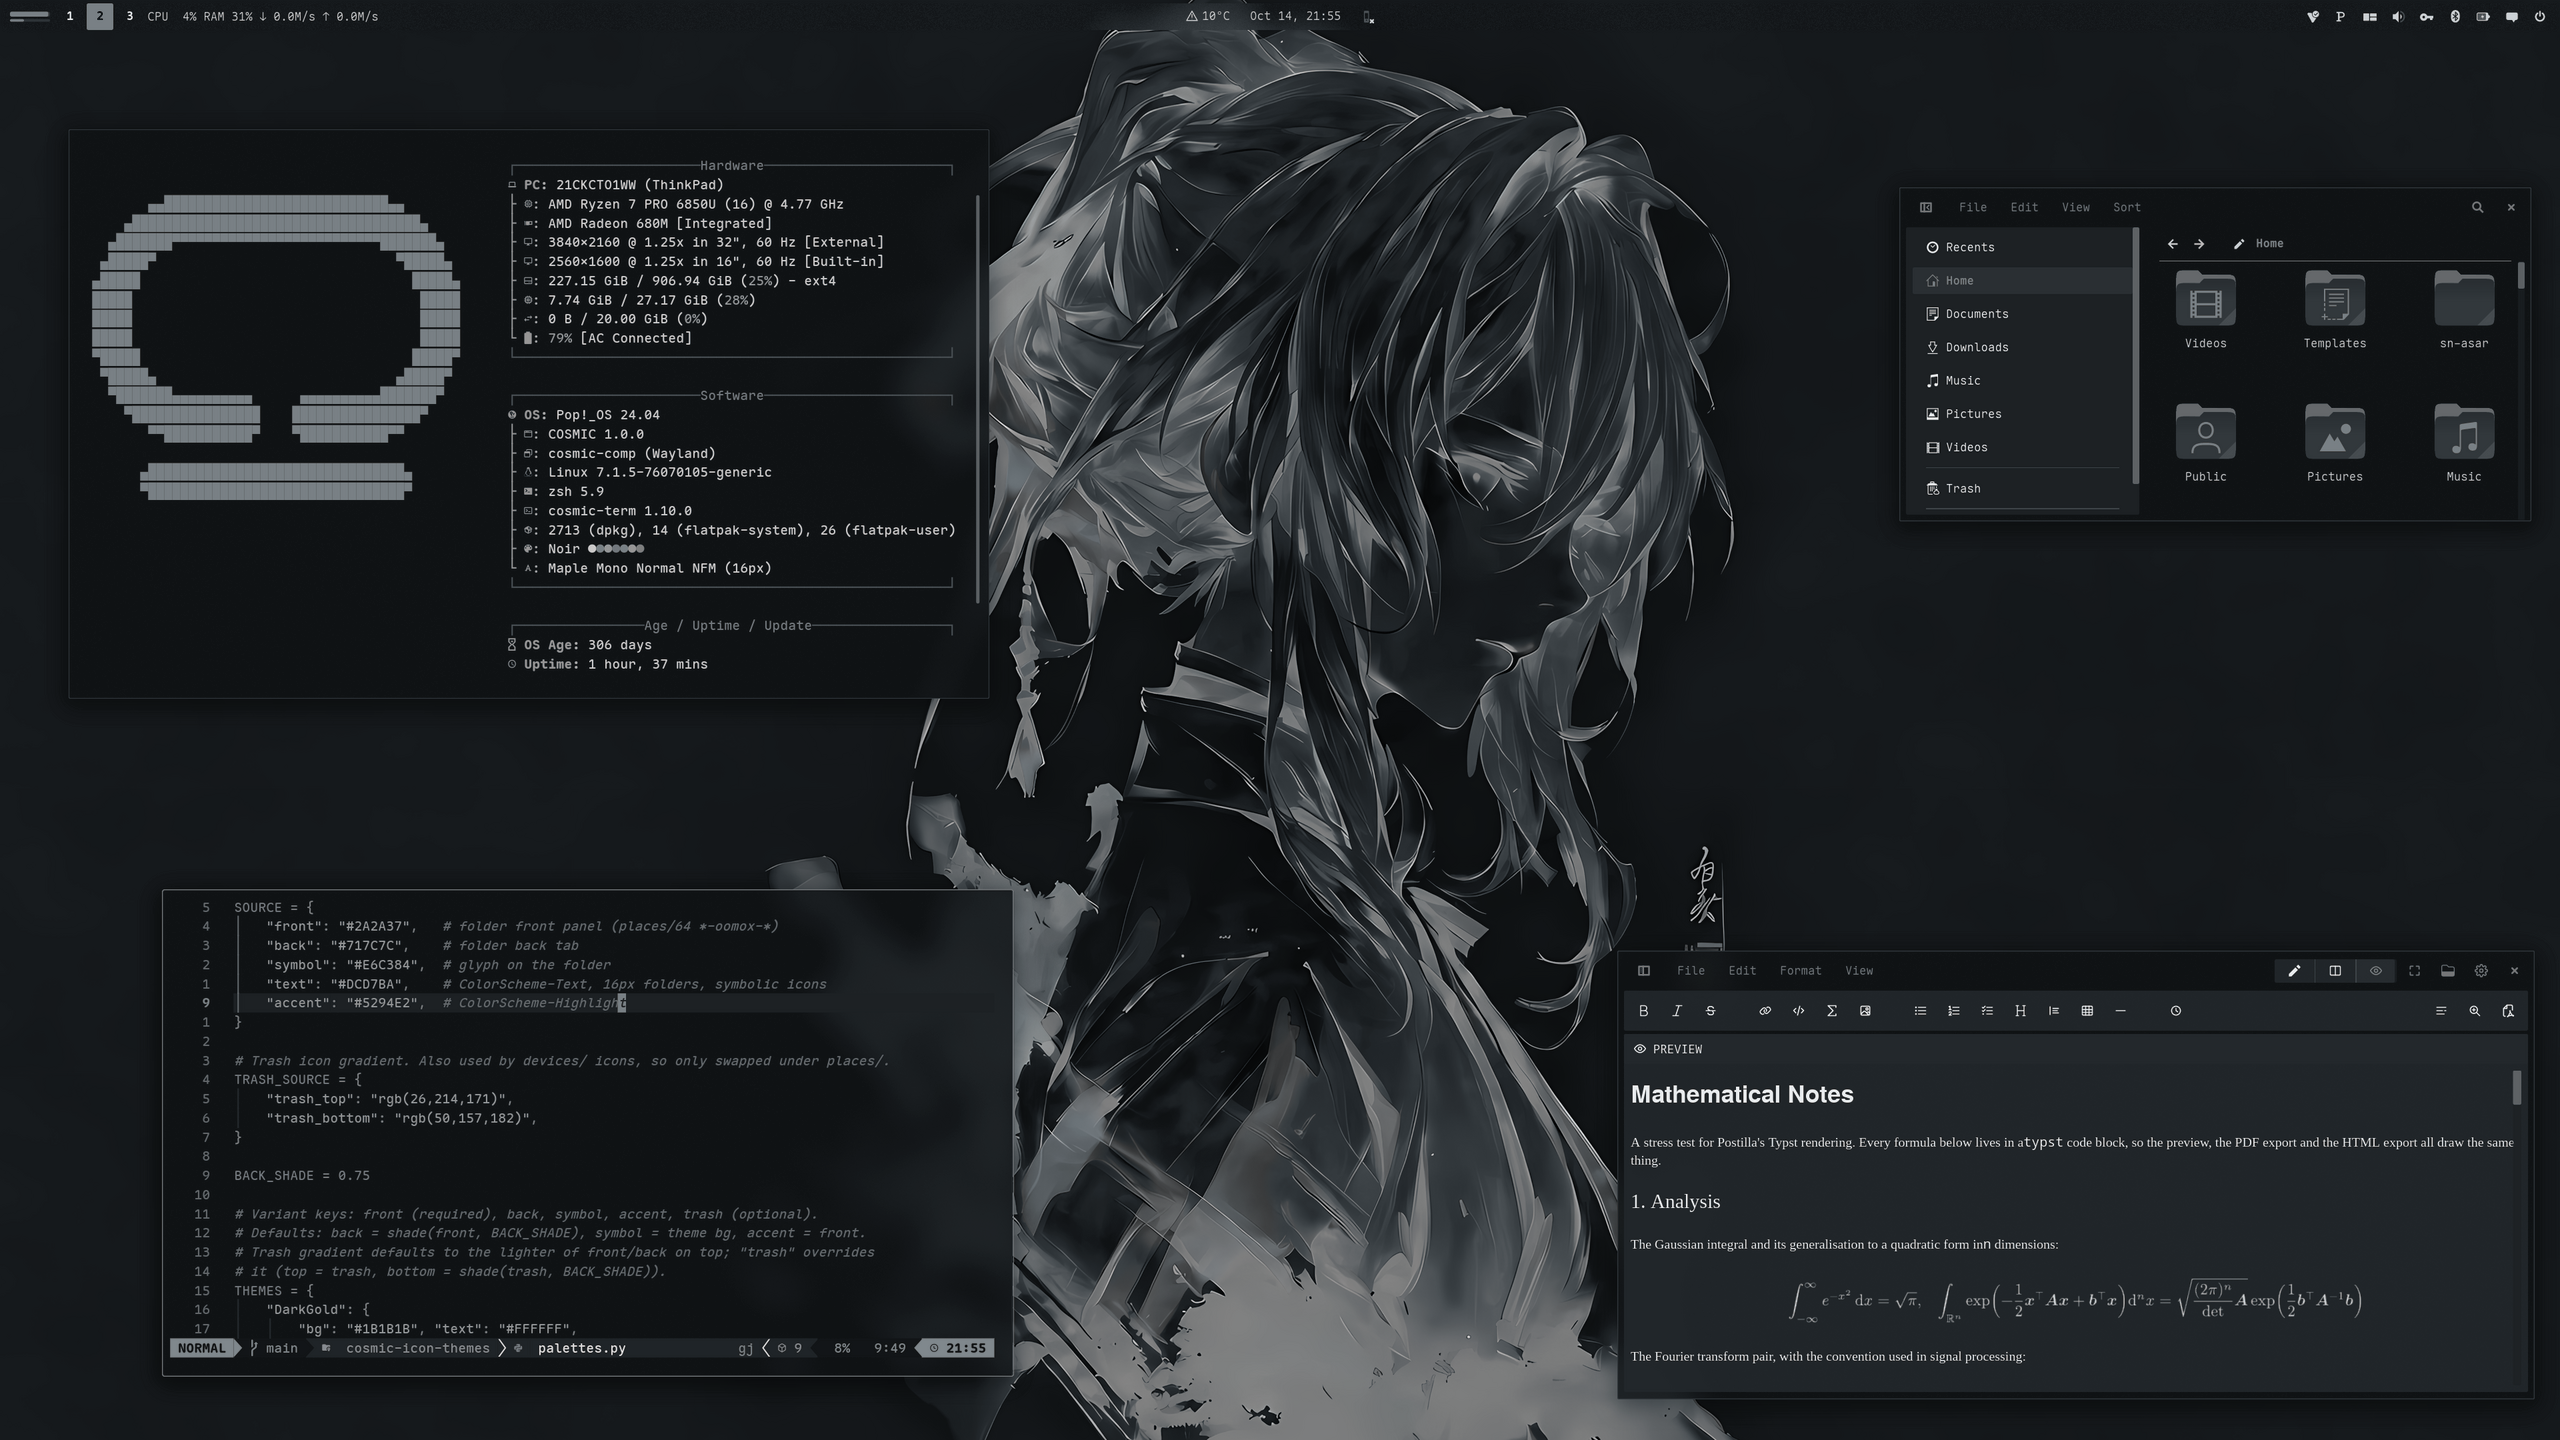
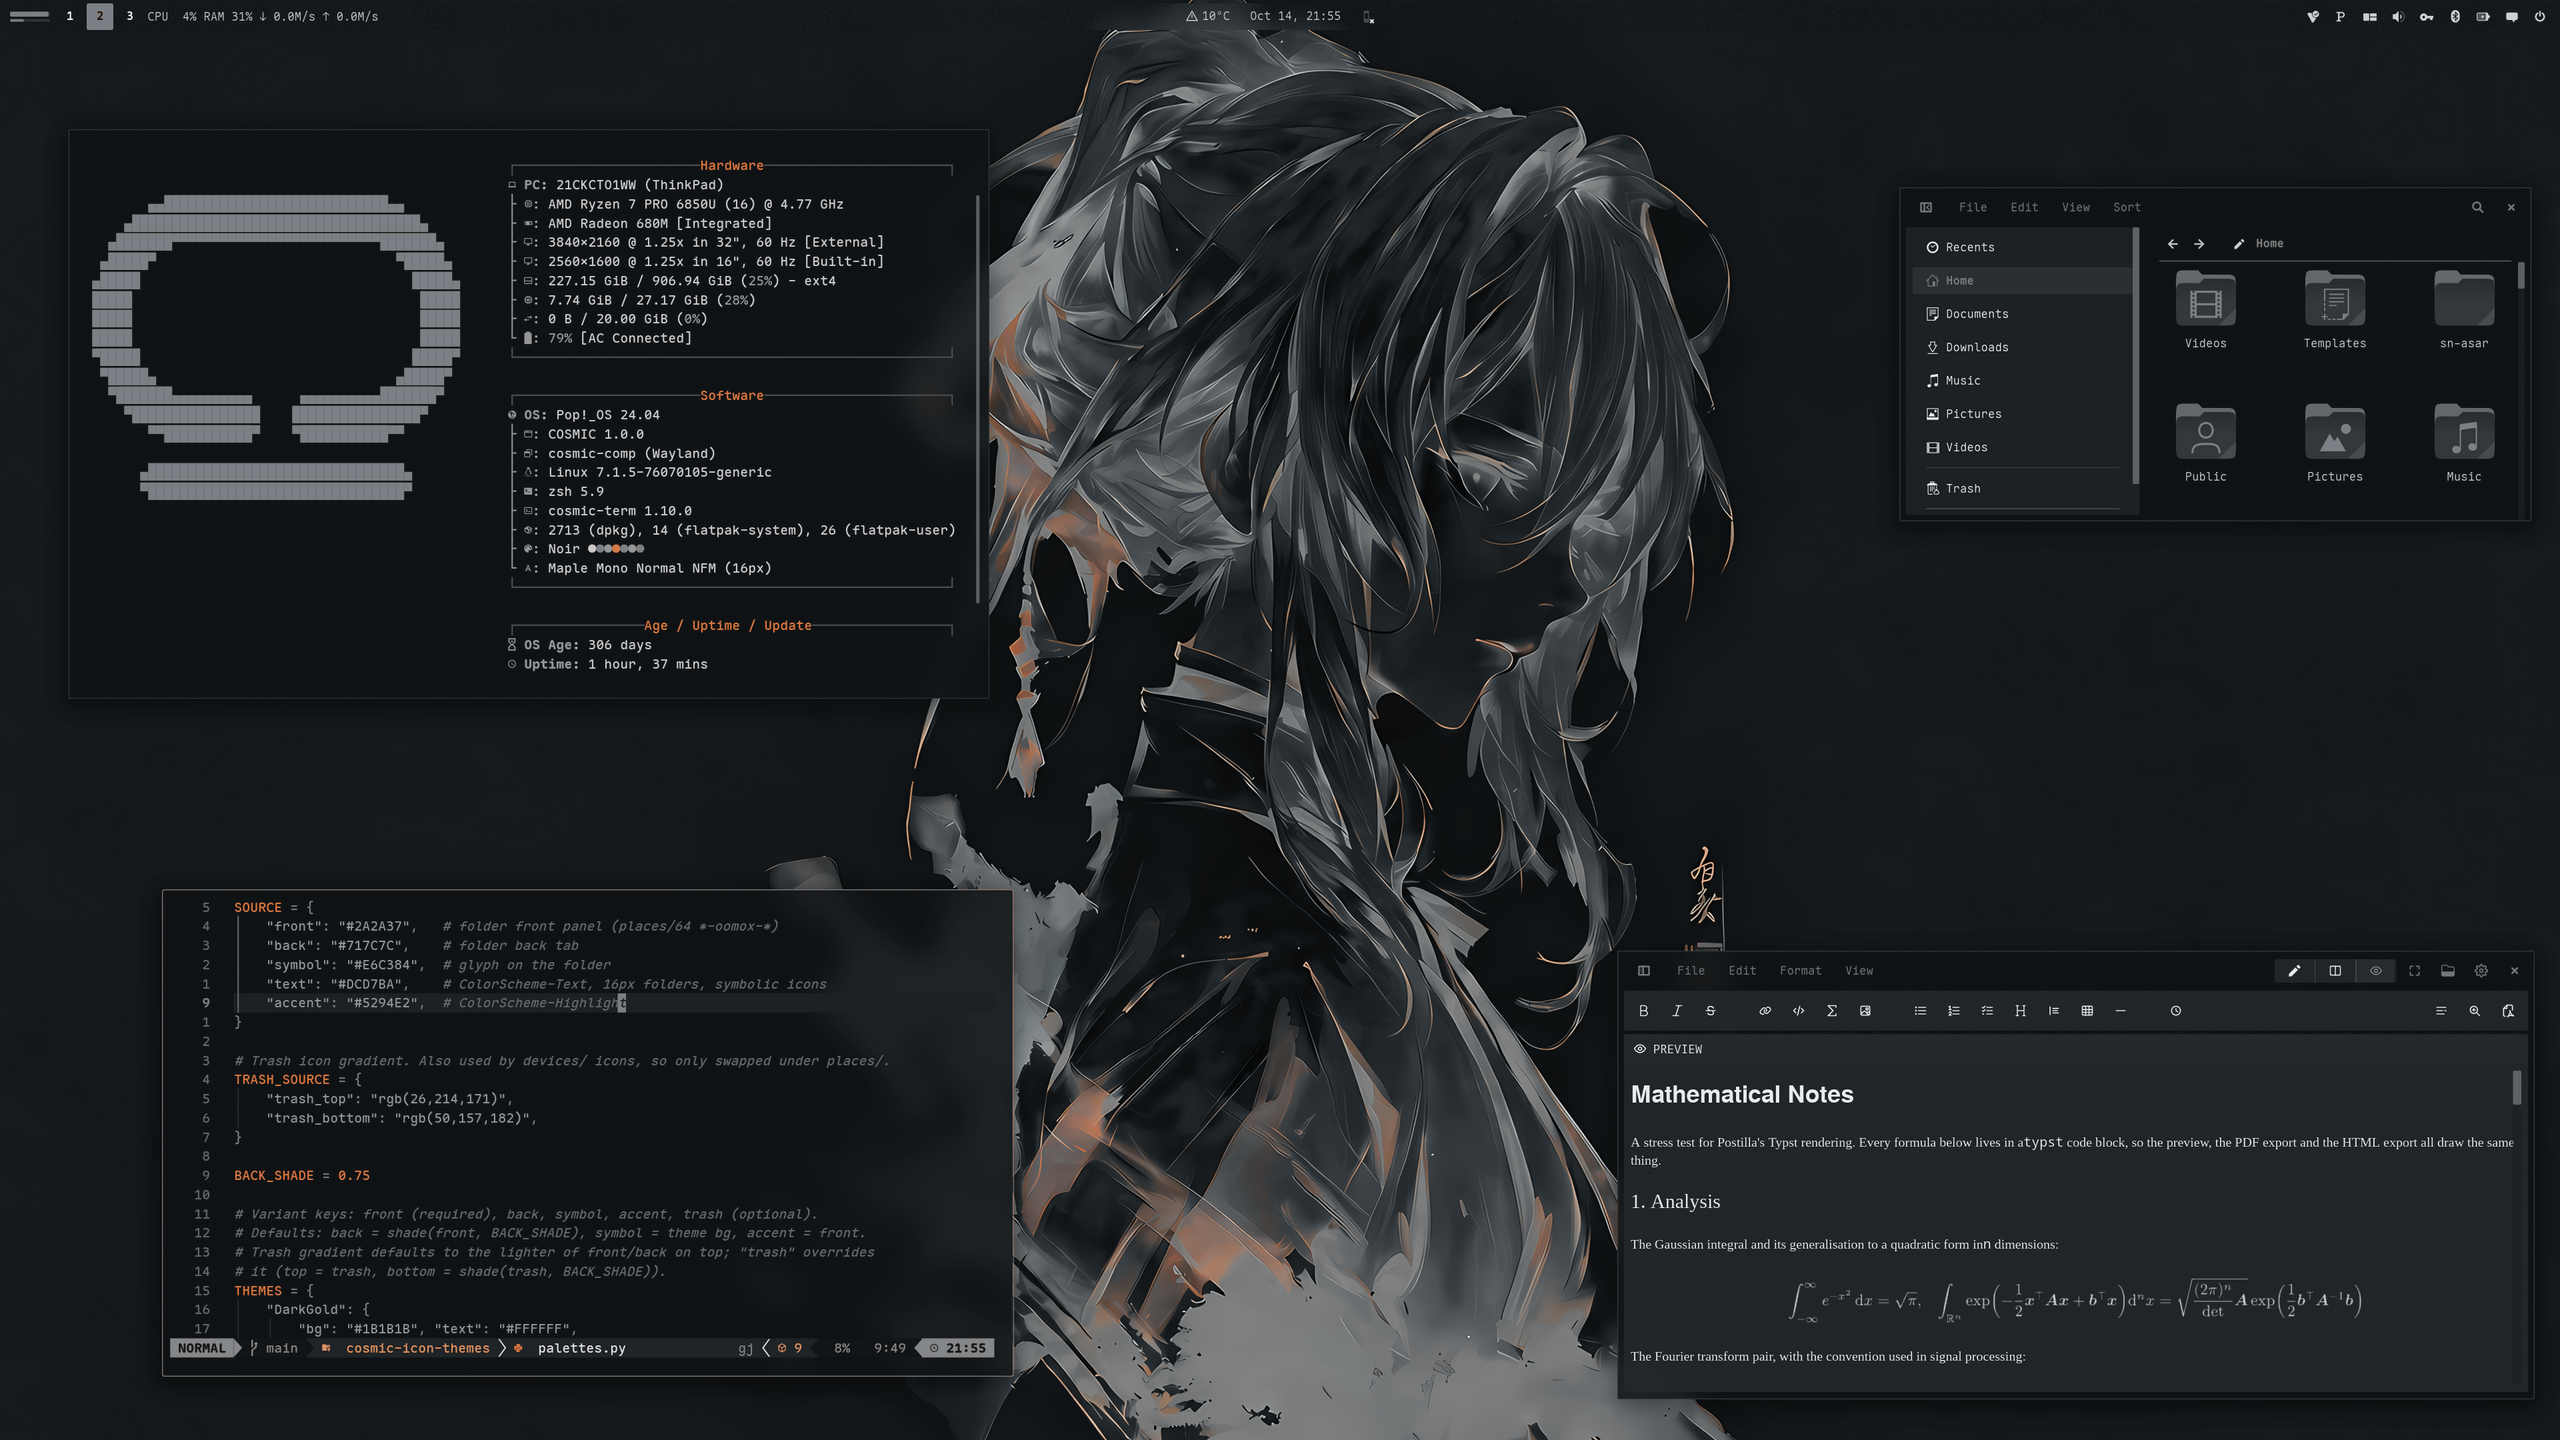
screenshot: orange where the configs put it, anime portrait wallpaper in the palette

diff --git a/README.md b/README.md
@@ -429,11 +429,13 @@ Restart open apps afterwards (Files caches icons per window).
 Add `--system` to install to `/usr/share/icons` instead, for every user and the
 login screen (asks for sudo); `--user` is the default.
 
-Wallpapers ship in [`backgrounds/`](backgrounds/), named `k3-<subject>`: six
+Wallpapers ship in [`backgrounds/`](backgrounds/), named `k3-<subject>`: seven
 ink-wash illustrations in the palette's own two tones, a stargazer under a
 swirling sky, a figure crouched in rubble, a climber in a storm, a girl in
-stardust, a window onto a dark eye over the city, and a rally car in a manga
-panel. `assets/wallpaper.png` is the stardust one (`k3-stardust.jpg`) at 2560x1440.
+stardust, a window onto a dark eye over the city, a rally car in a manga
+panel, and the anime portrait from the screenshot (`k3-anime.png`), the same
+picture in the palette's own tones. `assets/wallpaper.png` is the stardust one
+(`k3-stardust.jpg`) at 2560x1440.
 
 Settings → Wallpaper → Add image → a file from `backgrounds/`, or one you downloaded.
 
